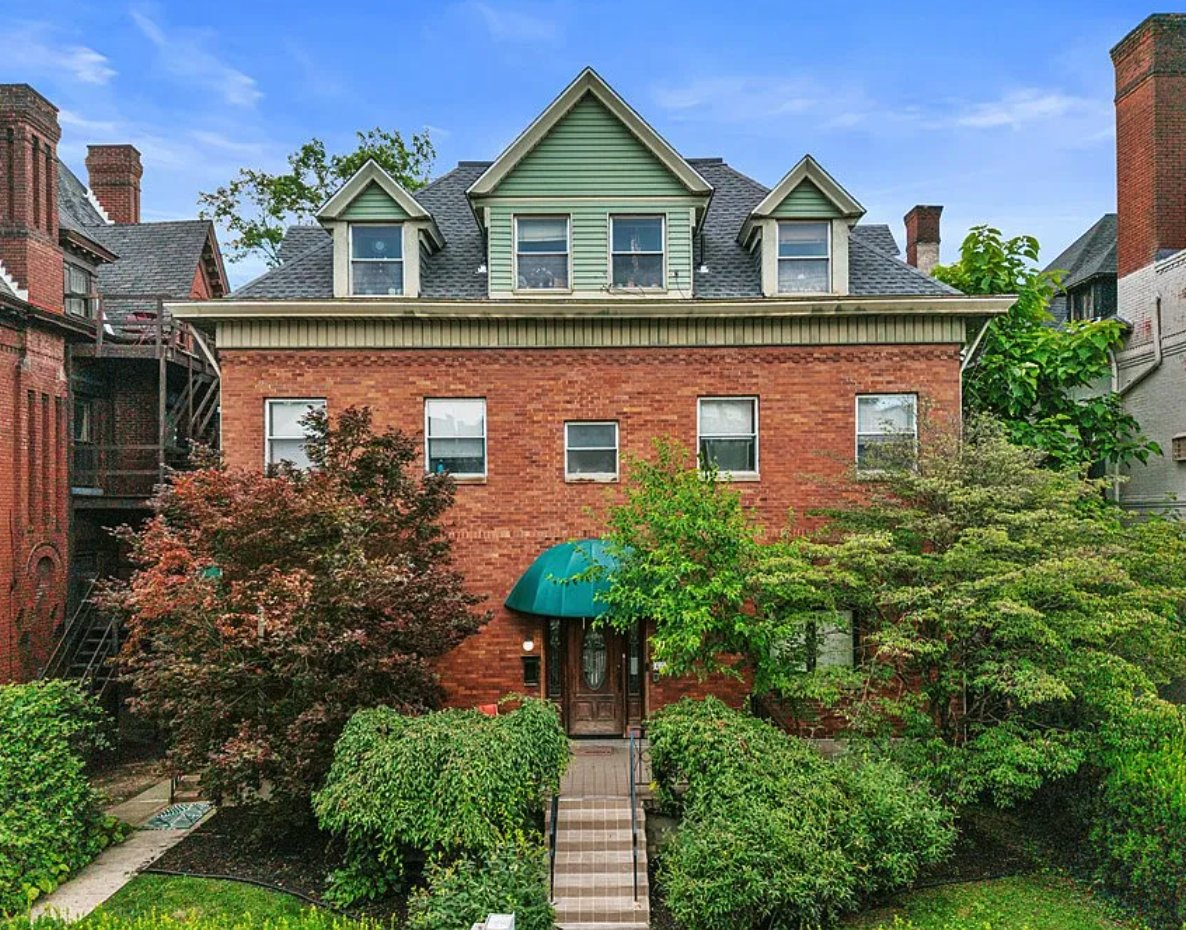
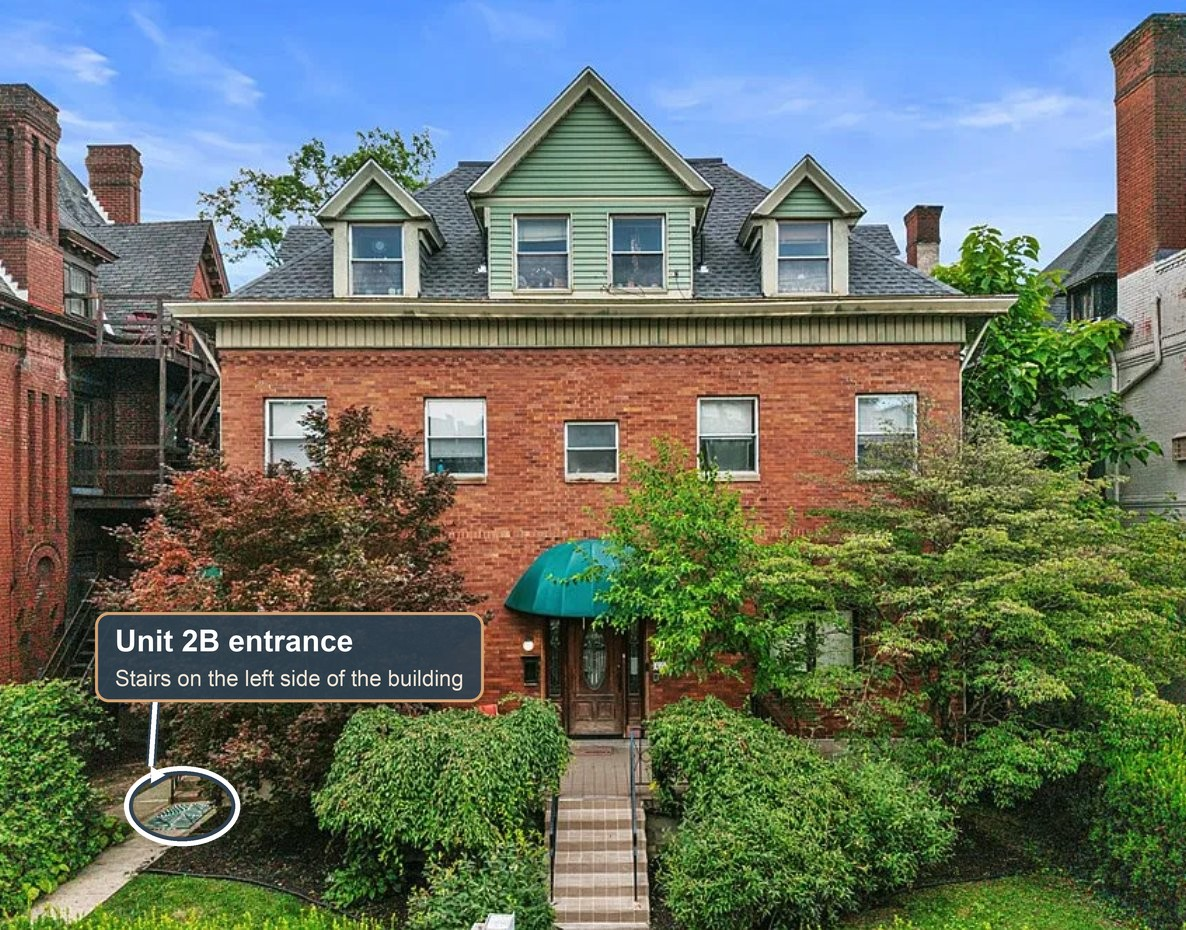
Mark the Unit 2B entrance on the building photo
Adds a highlight ring, arrow, and callout pointing to the doormat and
side stairs used to reach Unit 2B. Keeps the unmarked photo and the
annotation/floor-plan scripts in the repo.

Claude-Session: https://claude.ai/code/session_01AzBiAPeqHAWLghxkCbou5b

Changed region(s): [[0.0624, 0.6548, 0.4056, 0.8419], [0.0936, 0.8419, 0.2184, 0.9355]]

diff --git a/tools/make_floor_plan.py b/tools/make_floor_plan.py
@@ -1,0 +1,56 @@
+import sys
+from PIL import Image, ImageDraw, ImageChops, ImageFont
+src, dst = sys.argv[1], sys.argv[2]
+B = "/System/Library/Fonts/Supplemental/Arial Bold.ttf"; R = "/System/Library/Fonts/Supplemental/Arial.ttf"
+NAVY=(48,65,79); GREEN=(115,145,115); INK=(35,35,35)
+orig = Image.open(src).convert("RGB"); plan = orig.copy(); W, H = plan.size
+d = ImageDraw.Draw(plan)
+
+# font size matching the plan's own room labels ("Kitchen Unit #2B" is 273px wide)
+size = 10
+while ImageDraw.Draw(Image.new("L",(1,1))).textlength("Kitchen Unit #2B", font=ImageFont.truetype(B,size+1)) <= 273: size += 1
+lab = ImageFont.truetype(B, size)
+
+# 1. Family Room -> Living Room
+d.rectangle([818,880,1192,924], fill=(255,255,255))
+d.text(((823+1186)/2, 902), "Living Room Unit #2B", font=lab, fill=INK, anchor="mm")
+# 2. bathroom: clear the garbled overlapping label, restore walls, redraw dimension, relabel
+d.rectangle([786,1536,1113,1580], fill=(255,255,255))
+for x0,x1 in [(770,786),(1114,1140)]: plan.paste(orig.crop((x0,1536,x1,1581)),(x0,1536))
+d.text((815,1538), "2′10″", font=ImageFont.truetype(B,30), fill=GREEN)
+d.multiline_text((1012,1478), "Bathroom\nUnit #2B", font=lab, fill=INK, anchor="mm", align="center", spacing=6)
+
+# 3. shading
+not2b = [[(157,157),(1772,157),(1772,292),(1838,405),(1846,520),(1834,605),(1805,683),(157,683)],
+         [(1308,697),(1768,697),(1768,1138),(1308,1138)],
+         [(1310,1152),(1530,1152),(1530,1208),(1310,1208)]]
+shared = [[(160,697),(770,697),(770,990),(160,990)]]
+def mask_of(polys):
+    m = Image.new("L", plan.size, 0); md = ImageDraw.Draw(m)
+    for p in polys: md.polygon(p, fill=255)
+    return m
+tint = Image.new("RGB", plan.size, (255,255,255))
+tint.paste((222,224,227), mask=mask_of(not2b)); tint.paste((246,234,219), mask=mask_of(shared))
+out = ImageChops.multiply(plan, tint)
+hatch = Image.new("L", plan.size, 0); hd = ImageDraw.Draw(hatch)
+for x in range(-H, W, 34): hd.line([(x,0),(x+H,H)], fill=255, width=5)
+out.paste((178,184,190), mask=ImageChops.multiply(hatch, mask_of(not2b)))
+
+# 4. frame: title, legend, note
+top, bottom = 230, 260
+canvas = Image.new("RGB", (W, H+top+bottom), (255,255,255)); canvas.paste(out, (0, top))
+c = ImageDraw.Draw(canvas)
+def ctext(y, s, f, fill): c.text(((W-c.textlength(s, font=f))/2, y), s, font=f, fill=fill)
+ctext(55, "Unit 2B Floor Plan", ImageFont.truetype(B,78), NAVY)
+ctext(150, "1 bedroom / 1 full bath  ·  approx. 600 sq ft  ·  2nd floor", ImageFont.truetype(R,50), (90,100,110))
+fl = ImageFont.truetype(R,44); y0 = top+H+40; x = 170
+for kind, text in [("hatch","Not part of Unit 2B"), ("shared","Shared stairway & hallway")]:
+    sw = Image.new("RGB",(70,70),(222,224,227) if kind=="hatch" else (246,234,219))
+    if kind=="hatch":
+        sd = ImageDraw.Draw(sw)
+        for k in range(-70,70,17): sd.line([(k,0),(k+70,70)], fill=(178,184,190), width=4)
+    canvas.paste(sw,(x,y0)); c.rectangle([x,y0,x+69,y0+69], outline=(110,110,110), width=3)
+    c.text((x+95,y0+10), text, font=fl, fill=(40,40,40)); x += 95+int(c.textlength(text,font=fl))+110
+ctext(y0+120, "Measurements are approximate. Floor plan for illustration only.", ImageFont.truetype(R,38), (110,110,110))
+canvas.quantize(colors=64, method=Image.Quantize.MEDIANCUT, dither=Image.Dither.NONE).save(dst, optimize=True)
+print("label font size", size, canvas.size)

diff --git a/tools/annotate_front_photo.py b/tools/annotate_front_photo.py
@@ -1,0 +1,41 @@
+import sys, math
+from PIL import Image, ImageDraw, ImageFont
+src, dst = sys.argv[1], sys.argv[2]
+NAVY=(48,65,79); TAN=(212,163,115); WHITE=(255,255,255)
+base = Image.open(src).convert("RGB"); W,H = base.size
+SS = 3  # supersample overlay for smooth curves
+ov = Image.new("RGBA", (W*SS, H*SS), (0,0,0,0)); d = ImageDraw.Draw(ov)
+def s(*v): return [round(x*SS) for x in v]
+
+# ring around mat + first steps
+cx, cy, rx, ry = 182, 806, 58, 40
+for w, col in [(9, NAVY), (5, WHITE)]:
+    d.ellipse(s(cx-rx, cy-ry, cx+rx, cy+ry), outline=col, width=w*SS)
+
+# callout box on the lawn, lower middle
+fb = ImageFont.truetype("/System/Library/Fonts/Supplemental/Arial Bold.ttf", 30*SS)
+fr = ImageFont.truetype("/System/Library/Fonts/Supplemental/Arial.ttf", 22*SS)
+l1, l2 = "Unit 2B entrance", "Stairs on the left side of the building"
+w1 = d.textlength(l1, font=fb)/SS; w2 = d.textlength(l2, font=fr)/SS
+bw = max(w1, w2) + 40; bh = 90
+bx, by = 95, 612
+d.rounded_rectangle(s(bx, by, bx+bw, by+bh), radius=14*SS, fill=NAVY+(235,), outline=TAN+(255,), width=3*SS)
+d.text(s(bx+20, by+12), l1, font=fb, fill=WHITE)
+d.text(s(bx+20, by+54), l2, font=fr, fill=(240,228,214))
+
+# arrow from box toward ring
+x0, y0 = bx+60, by+bh     # start at bottom edge of box
+ang = math.atan2(cy+ry*0.55 - y0, cx+rx*0.75 - x0)
+x1 = cx + rx*0.95*math.cos(ang+math.pi)*-1; 
+x1, y1 = cx + (rx+6)*math.cos(ang+math.pi), cy + (ry+6)*math.sin(ang+math.pi)
+for w, col in [(10, NAVY), (5, WHITE)]:
+    d.line(s(x0, y0, x1, y1), fill=col, width=w*SS)
+    L = 22 if w==10 else 17; spread = 0.5
+    tip = (x1, y1)
+    p1 = (x1 - L*math.cos(ang-spread)*-1, y1 - L*math.sin(ang-spread)*-1)
+    p2 = (x1 - L*math.cos(ang+spread)*-1, y1 - L*math.sin(ang+spread)*-1)
+    d.polygon(s(*tip, *p1, *p2), fill=col)
+
+ov = ov.resize((W,H), Image.LANCZOS)
+out = base.convert("RGBA"); out.alpha_composite(ov)
+out.convert("RGB").save(dst, "JPEG", quality=90, optimize=True, progressive=True)

diff --git a/README.md b/README.md
@@ -34,6 +34,8 @@ Then open http://localhost:8000 in your browser.
 - `desc_index.html` — the availability table and text on the home page.
 - `desc_u2b.html` — the text on the Unit 2B page (`Unit-2B.html`).
 - `custom.css` — the theme overrides, including the tagline under the site title.
-- `logo.png`, `favicon*`, `apple-touch-icon.png` — branding.
+- `logo.svg`, `logo-horizontal.svg`, `favicon*`, `apple-touch-icon.png` — branding (originals in `brand/`).
+- `source_photos/` — unannotated originals; `tools/` — scripts that produced the annotated
+  building photo and the Unit 2B floor plan (run with `python3 tools/<script> <input> <output>`).
 
 Pushing to `master` builds and deploys to GitHub Pages via `.github/workflows/gallery.yml`.
